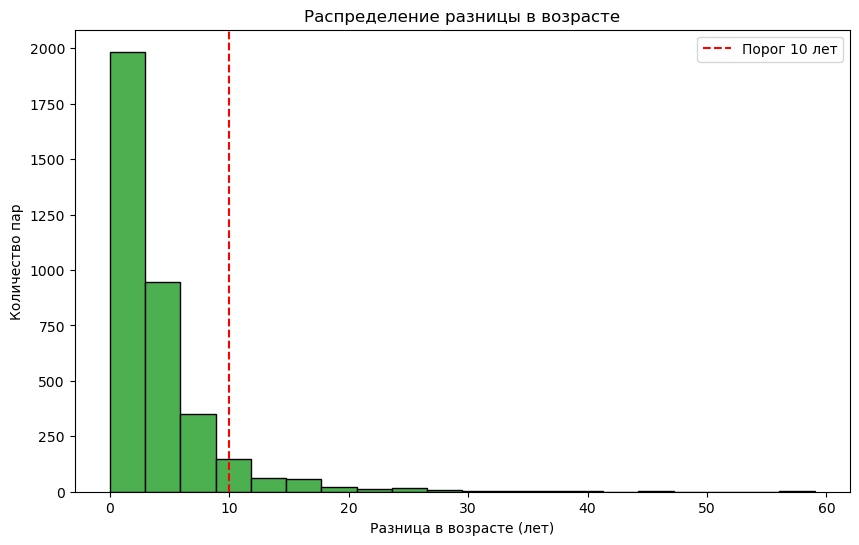
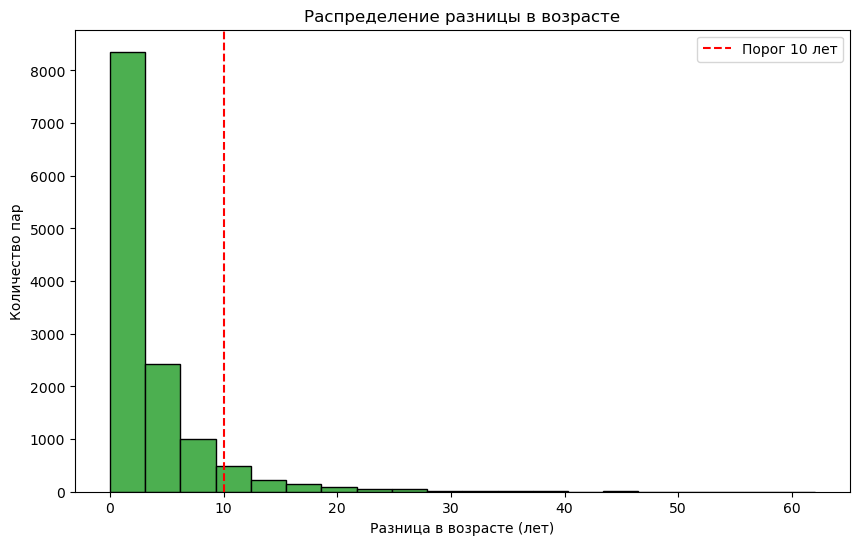
fix

diff --git a/user_generator.py b/user_generator.py
@@ -35,7 +35,7 @@ async def get_random_user():
                         user['login']['username']
                     )
                 return None, None, None, None
-        except (aiohttp.ClientError, KeyError, json.JSONDecodeError) as e:
+        except (aiohttp.ClientError, KeyError) as e:
             print(f"Ошибка при запросе к randomuser.me: {e}")
             return None, None, None, None
 
@@ -158,7 +158,7 @@ async def main():
     all_user_ids = []
 
     # Генерация всех пользователей
-    for _ in range(200):
+    for _ in range(400):
         batch_ids = await generate_and_insert_users(2)
         all_user_ids.extend(batch_ids)
 

diff --git a/analysis/analyze_age_diff.py b/analysis/analyze_age_diff.py
@@ -2,7 +2,6 @@ import asyncio
 import matplotlib.pyplot as plt
 from src.config import get_db_connection
 
-
 async def fetch_age_data():
     conn = await get_db_connection()
     query = """
